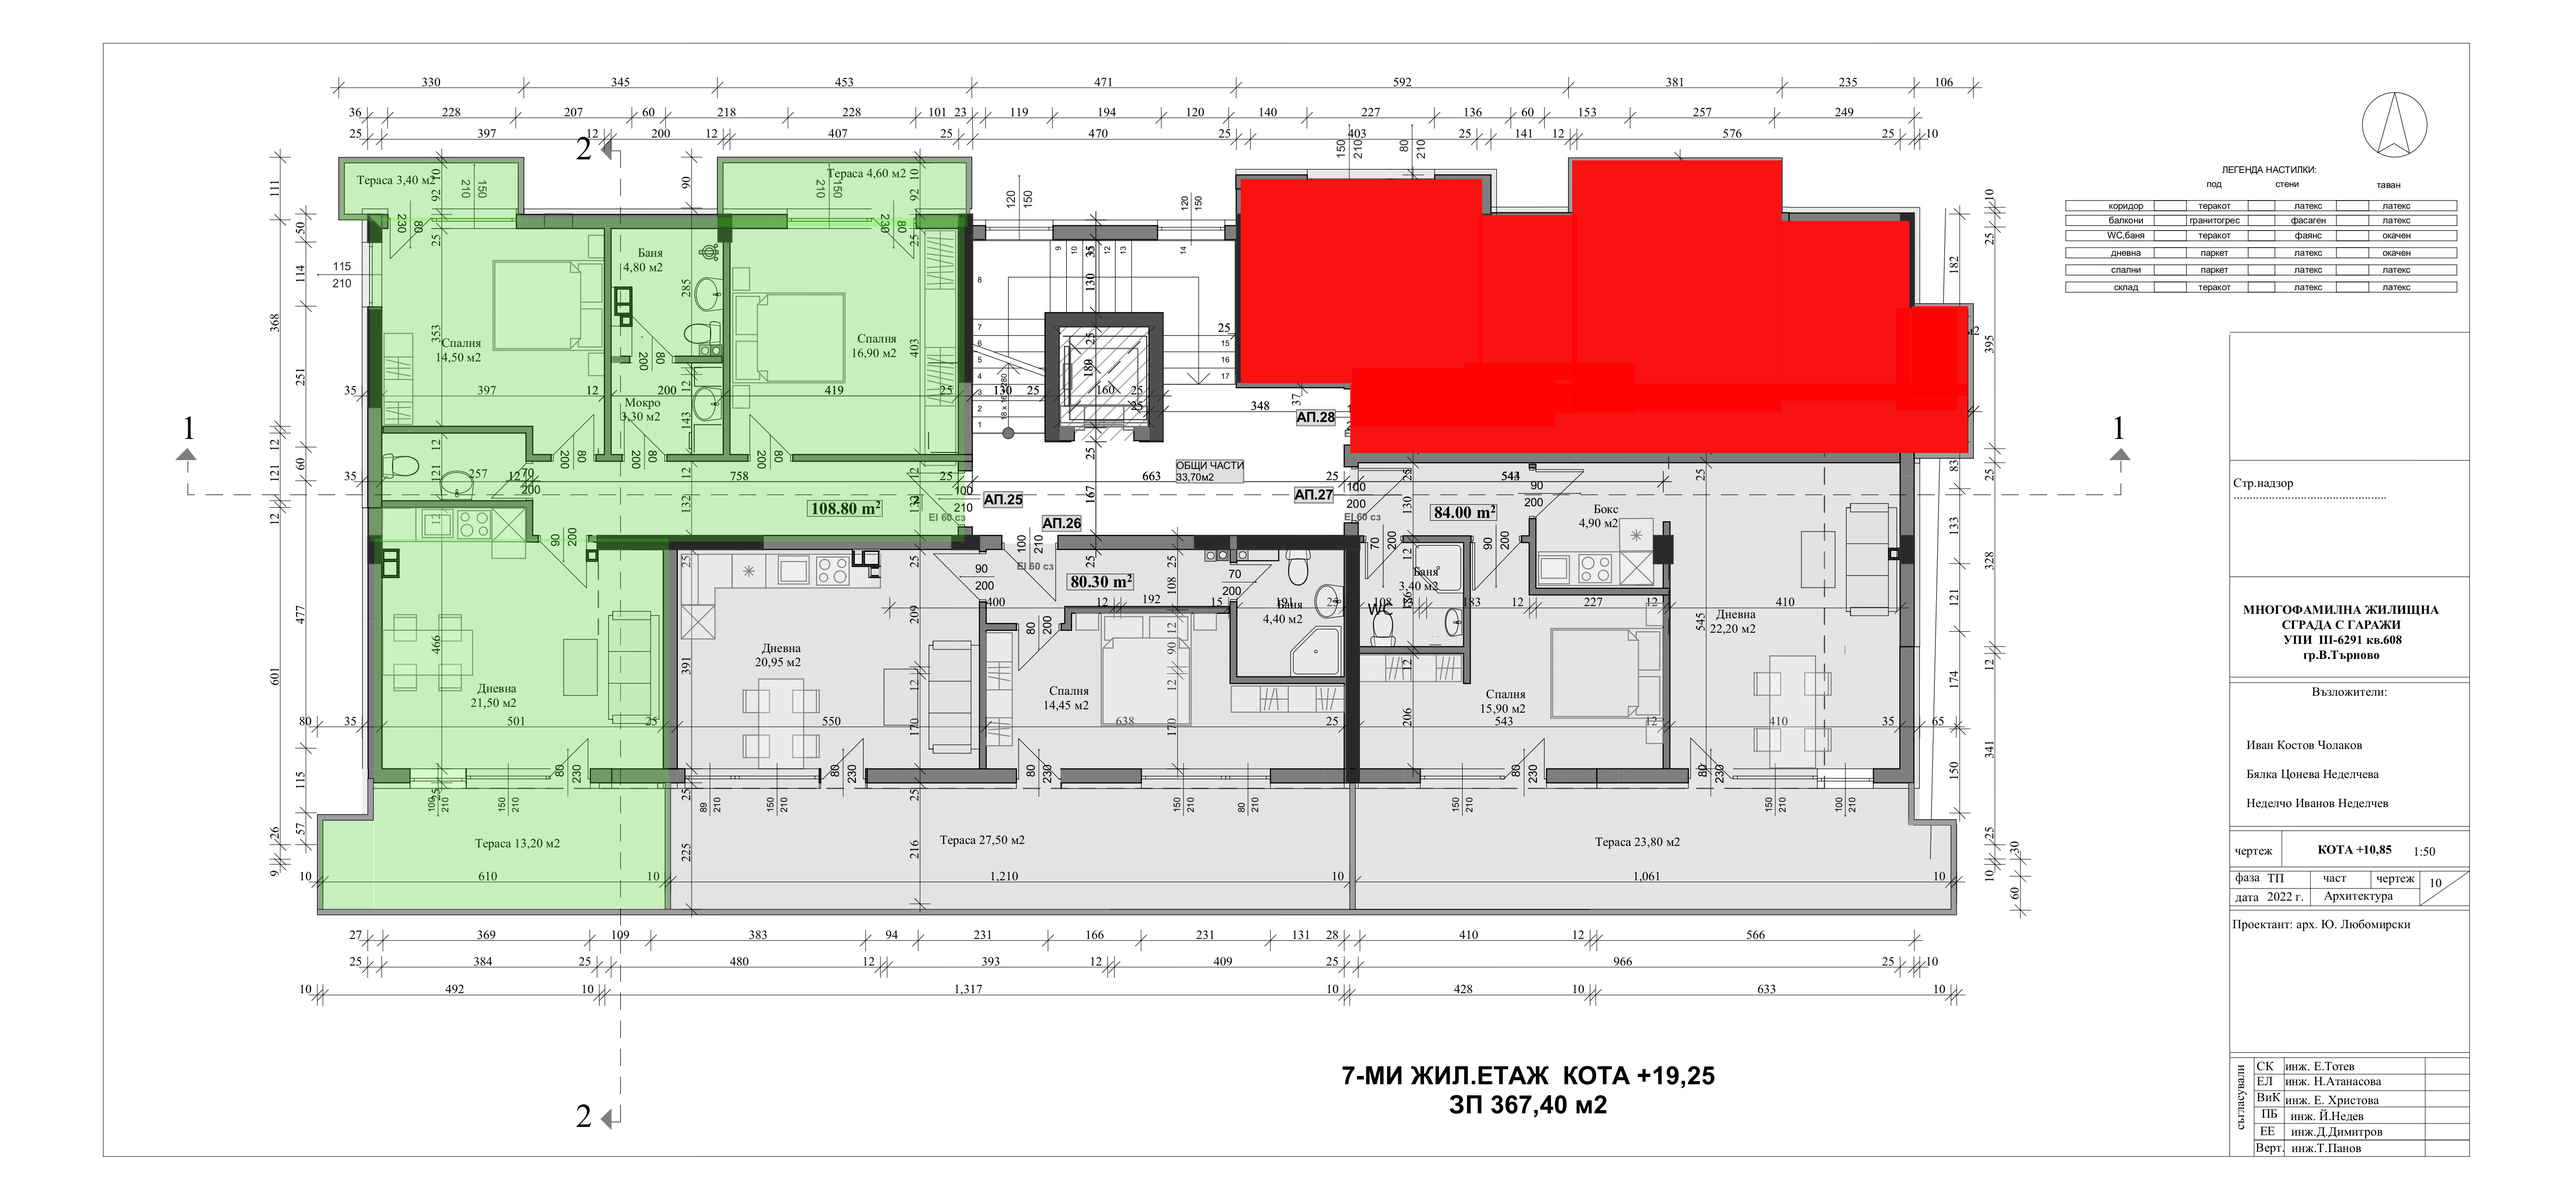
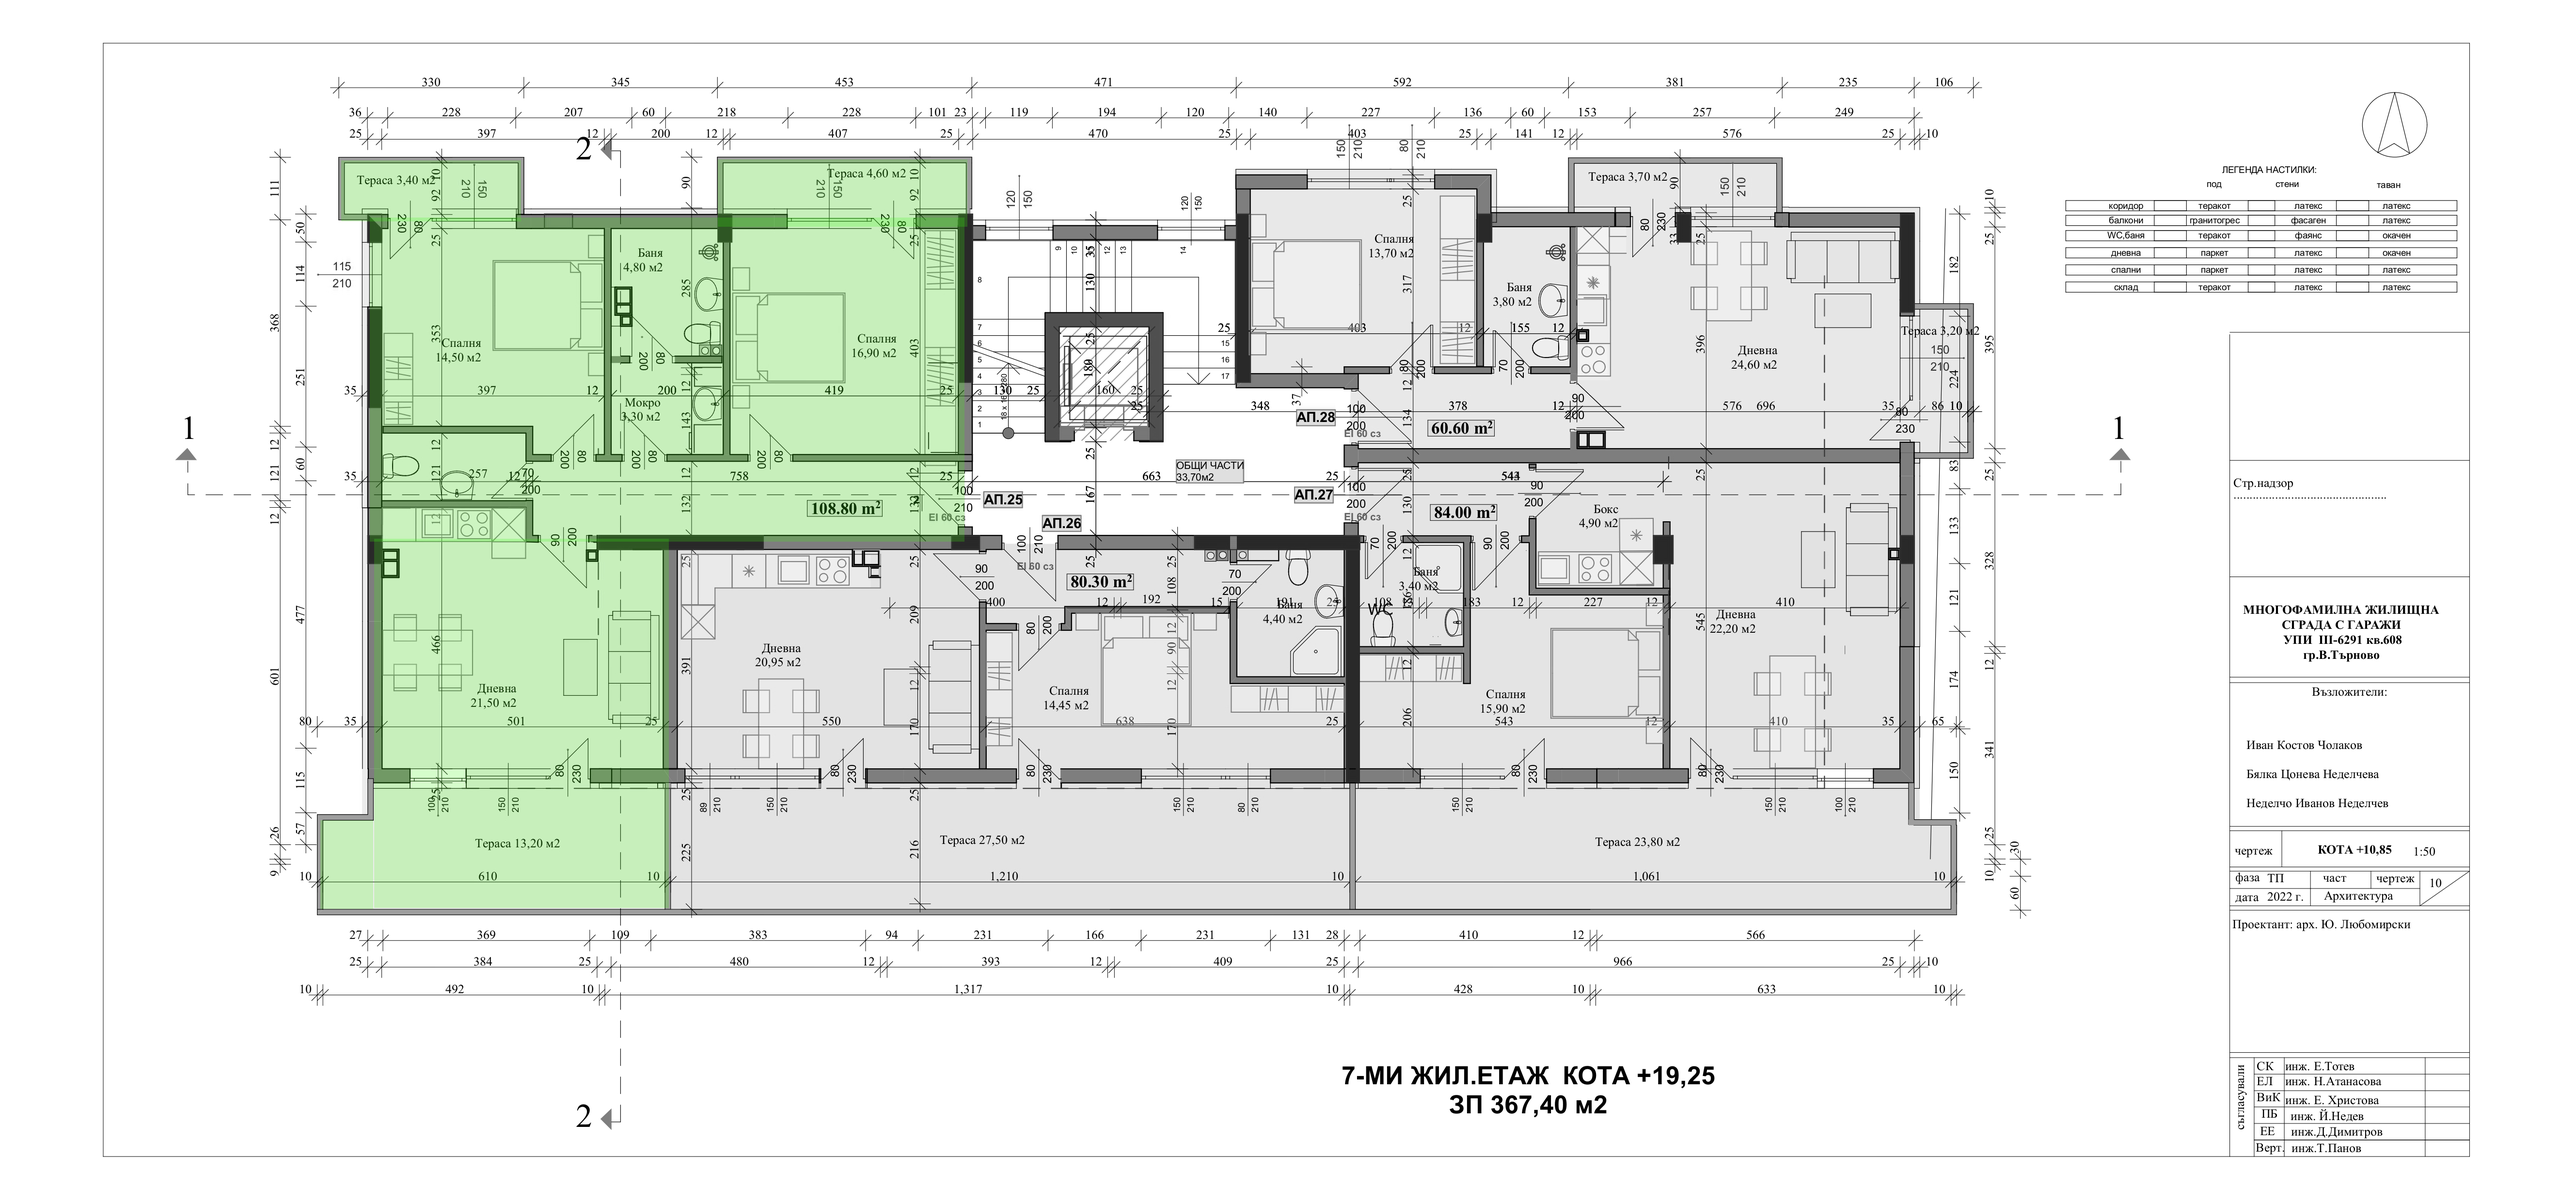
update

Changed region(s): [[0.4685, 0.1241, 0.7808, 0.4035]]

diff --git a/apartmants-details.html b/apartmants-details.html
@@ -42,9 +42,9 @@
 
       <nav id="navbar" class="navbar order-last order-lg-0">
         <ul>
-          <li><a class="nav-link scrollto active" href="#hero">За Комплекса</a></li>
-          <li><a class="nav-link scrollto" href="#services">Апартаменти</a></li>
-          <li><a class="nav-link scrollto" href="#contact">Контакти</a></li>
+          <li><a class="nav-link scrollto active" href="/index.html#hero">За Комплекса</a></li>
+          <li><a class="nav-link scrollto" href="/index.html#services">Апартаменти</a></li>
+          <li><a class="nav-link scrollto" href="/index.html#contact">Контакти</a></li>
         </ul>
         <i class="bi bi-list mobile-nav-toggle"></i>
       </nav><!-- .navbar -->
@@ -118,8 +118,8 @@
           <td>3.80 м&sup2</td>
           <td>10.79 м&sup2</td>
           <td>91.89 м&sup2</td>
-          <td class="aparts-status">Свободен</td>
-          <td><a class="aparts-btn" href="./assets/images/apartments/floor1/floor1_ap4.jpg">Скица</td>
+          <td class="aparts-status-taken">Продаден</td>
+          
         </tr>
         <tr>
           <td>Ателие №1</td>
@@ -214,8 +214,7 @@
           <td>2.50 м&sup2</td>
           <td>7.84 м&sup2</td>
           <td>61.14 м&sup2</td>
-          <td class="aparts-status">Свободен</td>
-          <td><a class="aparts-btn" href="./assets/images/apartments/floor3/floor3-at5.jpg">Скица</td>
+          <td class="aparts-status-taken">Продадено</td>
         </tr>
         <tr>
           <td>Апартамент №9</td>
@@ -438,8 +437,8 @@
           <td>5.00 м&sup2</td>
           <td>9.77 м&sup2</td>
           <td>75.32 м&sup2</td>
-          <td class="aparts-status-taken">Продаден</td>
-          <td></td>
+          <td class="aparts-status">Свободен</td>
+          <td><a class="aparts-btn" href="./assets/images/apartments/floor7/floor7_ap28.jpg">Скица</td>
         </tr>
 
         <!----------------Seventh Floor END -------------->
@@ -486,7 +485,7 @@
       </tr>
         <tr>
             <td>Гараж №1</td>
-            <td>-2</td>
+            <td>-1</td>
             <td>21.50 м&sup2</td>
             <td>2.79 м&sup2</td>
             <td>24.20 м&sup2</td>
@@ -495,7 +494,7 @@
         </tr>
         <tr>
           <td>Гараж №2</td>
-          <td>-2</td>
+          <td>-1</td>
           <td>21.80 м&sup2</td>
           <td>2.70 м&sup2</td>
           <td>24.50 м&sup2</td>
@@ -504,7 +503,7 @@
       </tr>
       <tr>
         <td>Гараж №3</td>
-        <td>-2</td>
+        <td>-1</td>
         <td>25.65 м&sup2</td>
         <td>3.15 м&sup2</td>
         <td>28.80 м&sup2</td>
@@ -513,7 +512,7 @@
     </tr>
       <tr>
           <td>Гараж №4</td>
-          <td>-2</td>
+          <td>-1</td>
           <td>28.10 м&sup2</td>
           <td>3.42 м&sup2</td>
           <td>31.52 м&sup2</td>
@@ -522,7 +521,7 @@
       </tr>
       <tr>
         <td>Гараж №5</td>
-        <td>-2</td>
+        <td>-1</td>
         <td>22.80 м&sup2</td>
         <td>2.80 м&sup2</td>
         <td>25.60 м&sup2</td>
@@ -531,7 +530,7 @@
       </tr>
       <tr>
         <td>Гараж №6</td>
-        <td>-2</td>
+        <td>-1</td>
         <td>24.20 м&sup2</td>
         <td>3.00 м&sup2</td>
         <td>27.20 м&sup2</td>
@@ -540,7 +539,7 @@
       </tr>
       <tr>
         <td>Гараж №7</td>
-        <td>-2</td>
+        <td>-1</td>
         <td>25.00 м&sup2</td>
         <td>3.14 м&sup2</td>
         <td>28.14 м&sup2</td>
@@ -549,7 +548,7 @@
       </tr>
       <tr>
         <td>Гараж №8</td>
-        <td>-2</td>
+        <td>-1</td>
         <td>23.80 м&sup2</td>
         <td>2.94 м&sup2</td>
         <td>26.74 м&sup2</td>
@@ -558,7 +557,7 @@
       </tr>
       <tr>
         <td>Гараж №9</td>
-        <td>-2</td>
+        <td>-1</td>
         <td>28.80 м&sup2</td>
         <td>3.55 м&sup2</td>
         <td>32.35 м&sup2</td>
@@ -643,8 +642,7 @@
         <td>21.60 м&sup2</td>
         <td>3.00 м&sup2</td>
         <td>24.60 м&sup2</td>
-        <td class="aparts-status">Свободен</td>
-        <td><a class="aparts-btn" href="./assets/images/garages/garages_02.jpg">Скица</td>
+        <td class="aparts-status-taken">Продаден</td>
       </tr>
       <tr>
         <td>Гараж №18</td>
@@ -748,7 +746,7 @@
                 <strong>Email:</strong>complexpalmira@gmail.com<br>
               </p>
               <div class="social-links mt-3">
-                <a href="#" class="facebook"><i class="bx bxl-facebook"></i></a>
+                <a href="https://www.facebook.com/profile.php?id=61551494963290" class="facebook"><i class="bx bxl-facebook"></i></a>
 
               </div>
             </div>
@@ -757,9 +755,9 @@
           <div class="col-lg-2 col-md-6 footer-links">
 
             <ul>
-              <li><i class="bx bx-chevron-right"></i> <a href="#">За комплека</a></li>
-              <li><i class="bx bx-chevron-right"></i> <a href="#">Апартаменти</a></li>
-              <li><i class="bx bx-chevron-right"></i> <a href="#">Контакти</a></li>
+              <li><i class="bx bx-chevron-right"></i> <a href="/index.html#hero">За комплека</a></li>
+              <li><i class="bx bx-chevron-right"></i> <a href="/index.html#services">Апартаменти</a></li>
+              <li><i class="bx bx-chevron-right"></i> <a href="/index.html#contacts">Контакти</a></li>
 
             </ul>
           </div>

diff --git a/index.html b/index.html
@@ -261,16 +261,16 @@
           <div class="col-lg-4 col-md-6 d-flex align-items-stretch" data-aos="zoom-in" data-aos-delay="100">
             
             <div class="icon-box">
-              <div class="icon"><i class="bx bxl-dribbble"></i></div>
+              <div class="icon"><i class="bx bx-home"></i></div>
               <h4>Апартаменти</h4>
-              <p><a href="apartmants-details.html">Провети има ли свободни</a></p>
+              <p><a href="apartmants-details.html">Провери има ли свободни</a></p>
             </div>
          
           </div>
           <div class="col-lg-4 col-md-6 d-flex align-items-stretch" data-aos="zoom-in" data-aos-delay="100">
      
             <div class="icon-box">
-              <div class="icon"><i class="bx bxl-dribbble"></i></div>
+              <div class="icon"><i class="bx bxs-car-garage"></i></div>
               <h4>Гаражи</h4>
               <p><a href="apartmants-details.html">Провери</a></p>
             </div>
@@ -279,9 +279,9 @@
           <div class="col-lg-4 col-md-6 d-flex align-items-stretch" data-aos="zoom-in" data-aos-delay="100">
            
             <div class="icon-box">
-              <div class="icon"><i class="bx bxl-dribbble"></i></div>
+              <div class="icon"><i class="bx bx-building-house"></i></div>
               <h4>Ателиета</h4>
-              <p><a href="apartmants-details.html">Провети</a></p>
+              <p><a href="apartmants-details.html">Провери</a></p>
 
           </div>
           
@@ -362,7 +362,7 @@
           <div class="col-lg-8 mt-5 mt-lg-0">
 
             <form action="https://formsubmit.co/complexpalmira@gmail.com" method="post" role="form" class="php-email-form">
-              <input type="hidden" name="_next" value="https://yavor-yankov.github.io/Palmiravt/thankyou.html">
+              
               <div class="row">
                 <div class="col-md-6 form-group">
                   <input type="text" name="name" class="form-control" id="name" placeholder="Име" required>
@@ -382,7 +382,8 @@
                 <div class="error-message"></div>
                 <div class="sent-message">Съобщението беше изпратено. Благодарим Ви!</div>
               </div>
-              <div class="text-center"><button type="submit">Изпрати запитване</button></div>
+           
+              <div class="text-center"><button type="submit" >Изпрати запитване</button> </div>
             
               <input type="hidden" name="_captcha" value="false">
               
@@ -415,7 +416,7 @@
                 <strong>Email:</strong>complexpalmira@gmail.com<br>
               </p>
               <div class="social-links mt-3">
-                <a href="#" class="facebook"><i class="bx bxl-facebook"></i></a>
+                <a href="https://www.facebook.com/profile.php?id=61551494963290" class="facebook"><i class="bx bxl-facebook"></i></a>
 
               </div>
             </div>
@@ -424,9 +425,9 @@
           <div class="col-lg-2 col-md-6 footer-links">
 
             <ul>
-              <li><i class="bx bx-chevron-right"></i> <a href="#">За комплека</a></li>
-              <li><i class="bx bx-chevron-right"></i> <a href="#">Апартаменти</a></li>
-              <li><i class="bx bx-chevron-right"></i> <a href="#">Контакти</a></li>
+              <li><i class="bx bx-chevron-right"></i> <a href="#hero">За комплека</a></li>
+              <li><i class="bx bx-chevron-right"></i> <a href="#services">Апартаменти</a></li>
+              <li><i class="bx bx-chevron-right"></i> <a href="#contacts">Контакти</a></li>
 
             </ul>
           </div>
